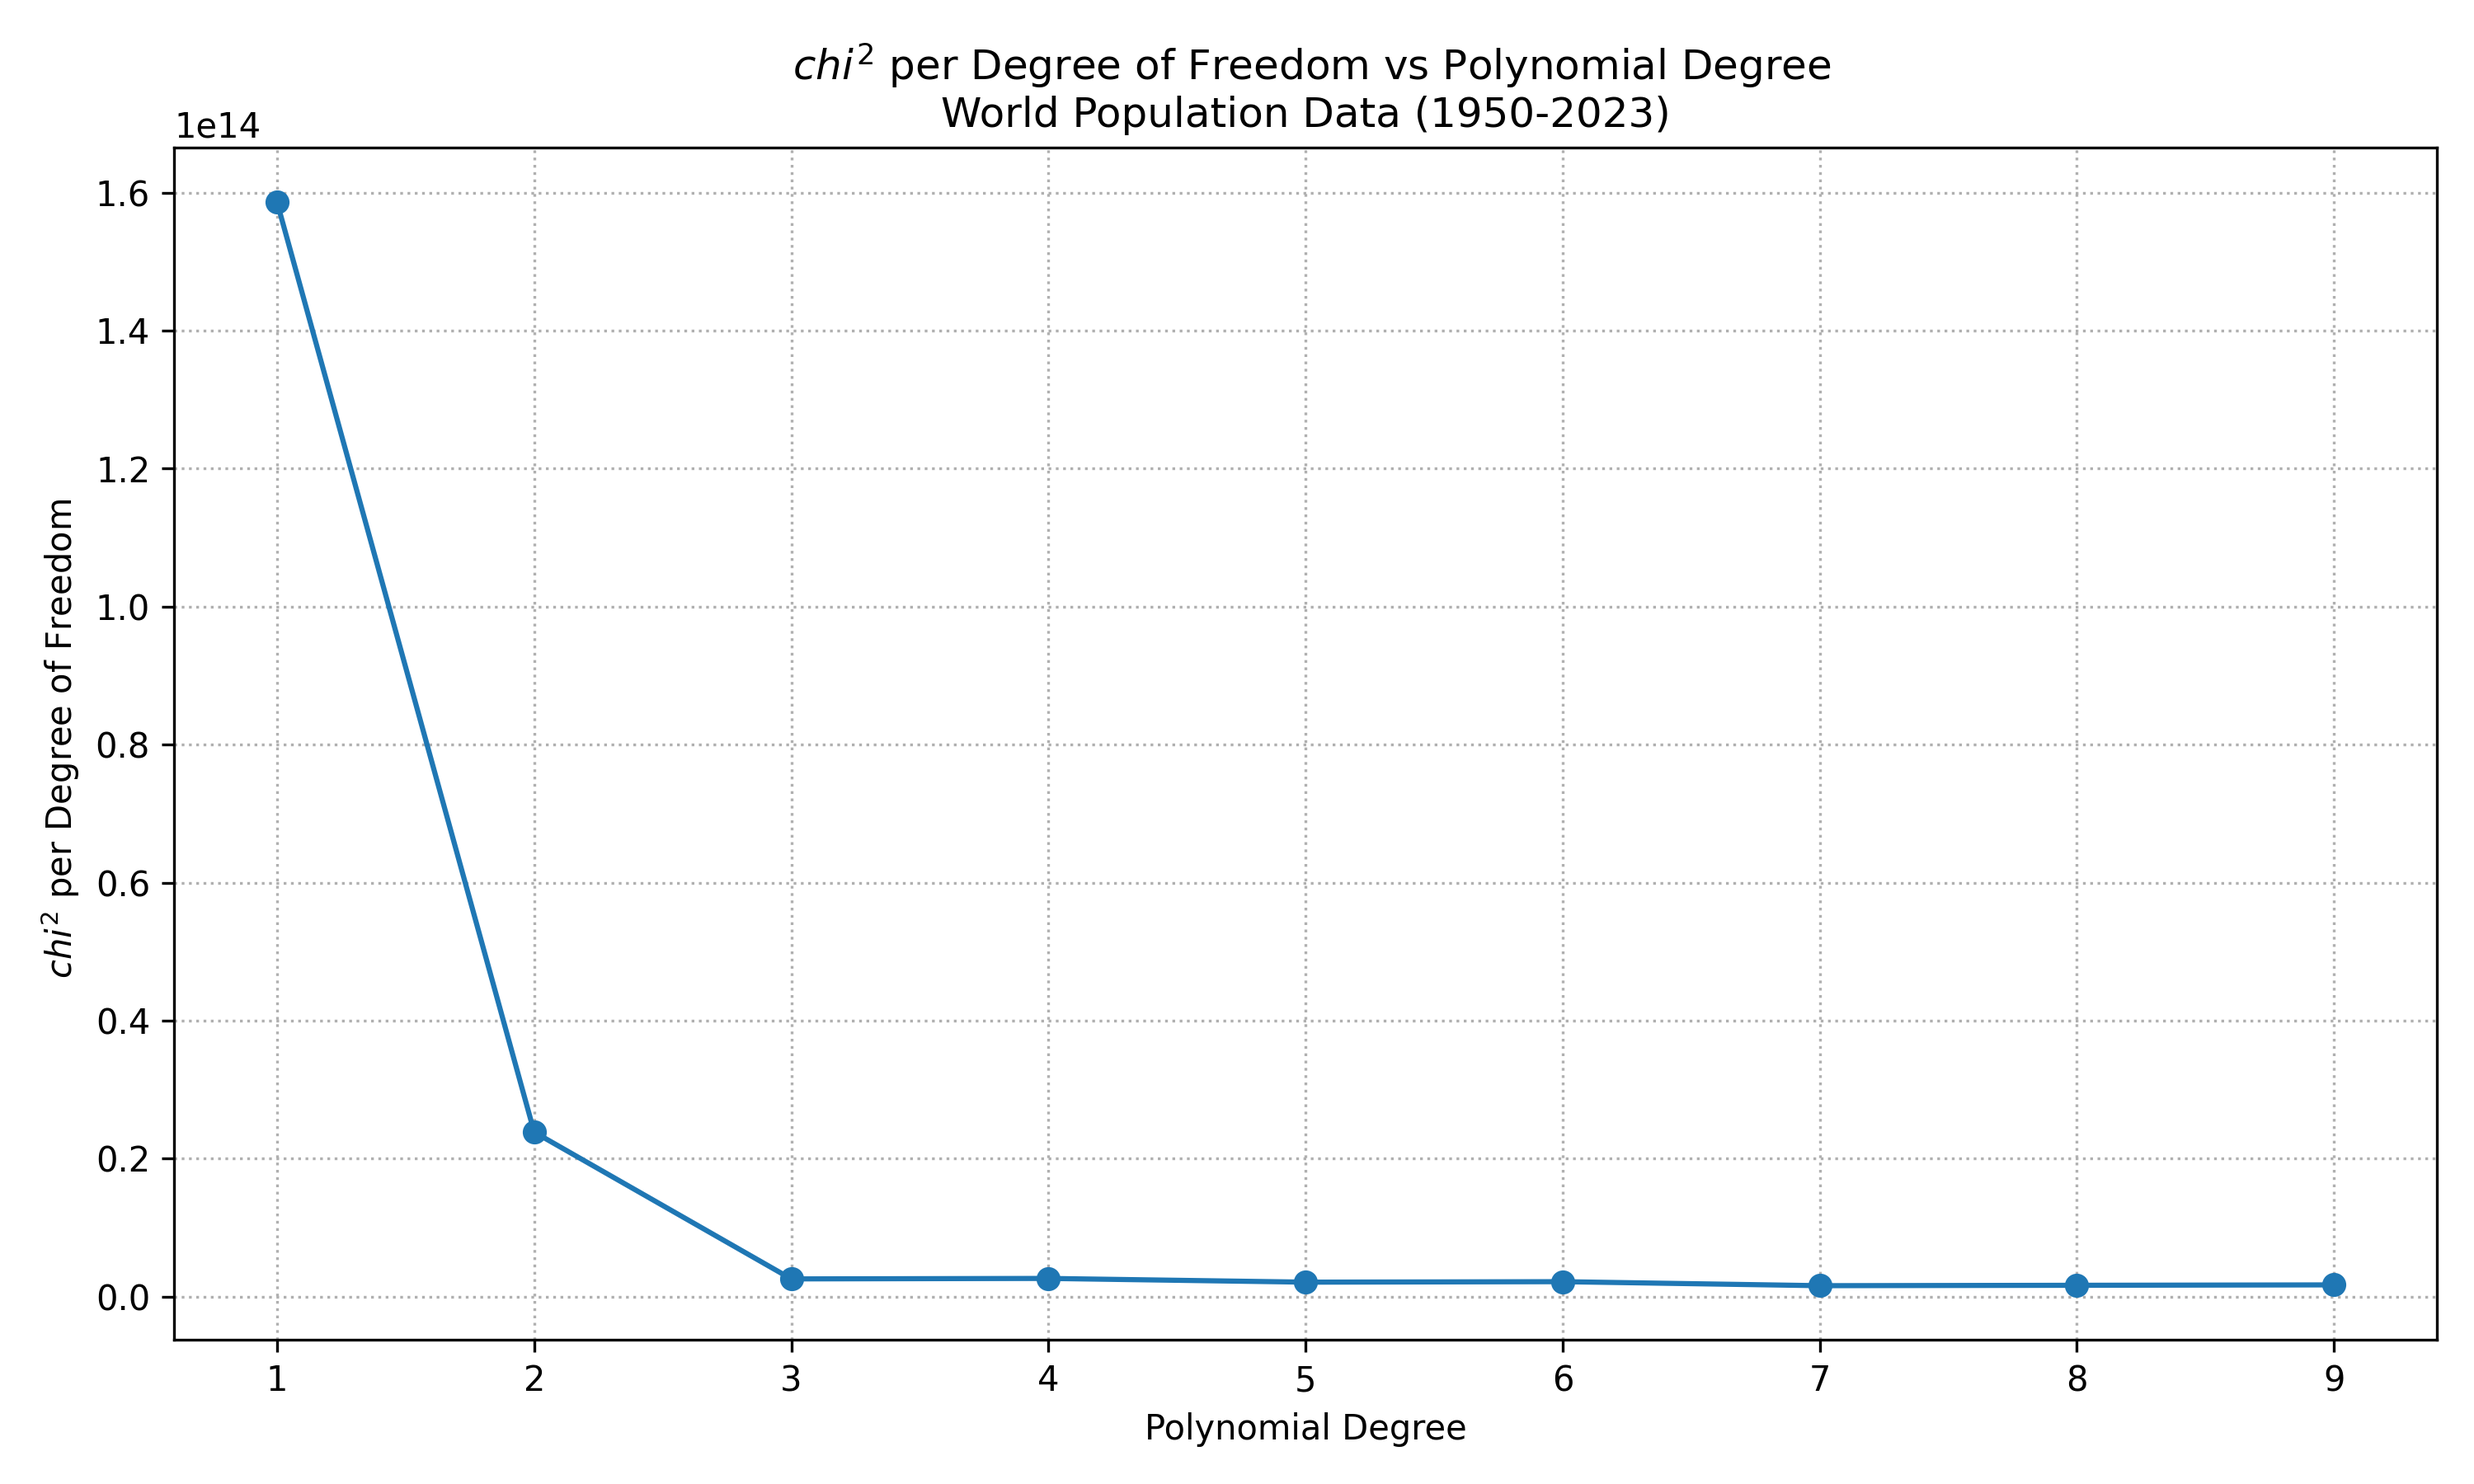
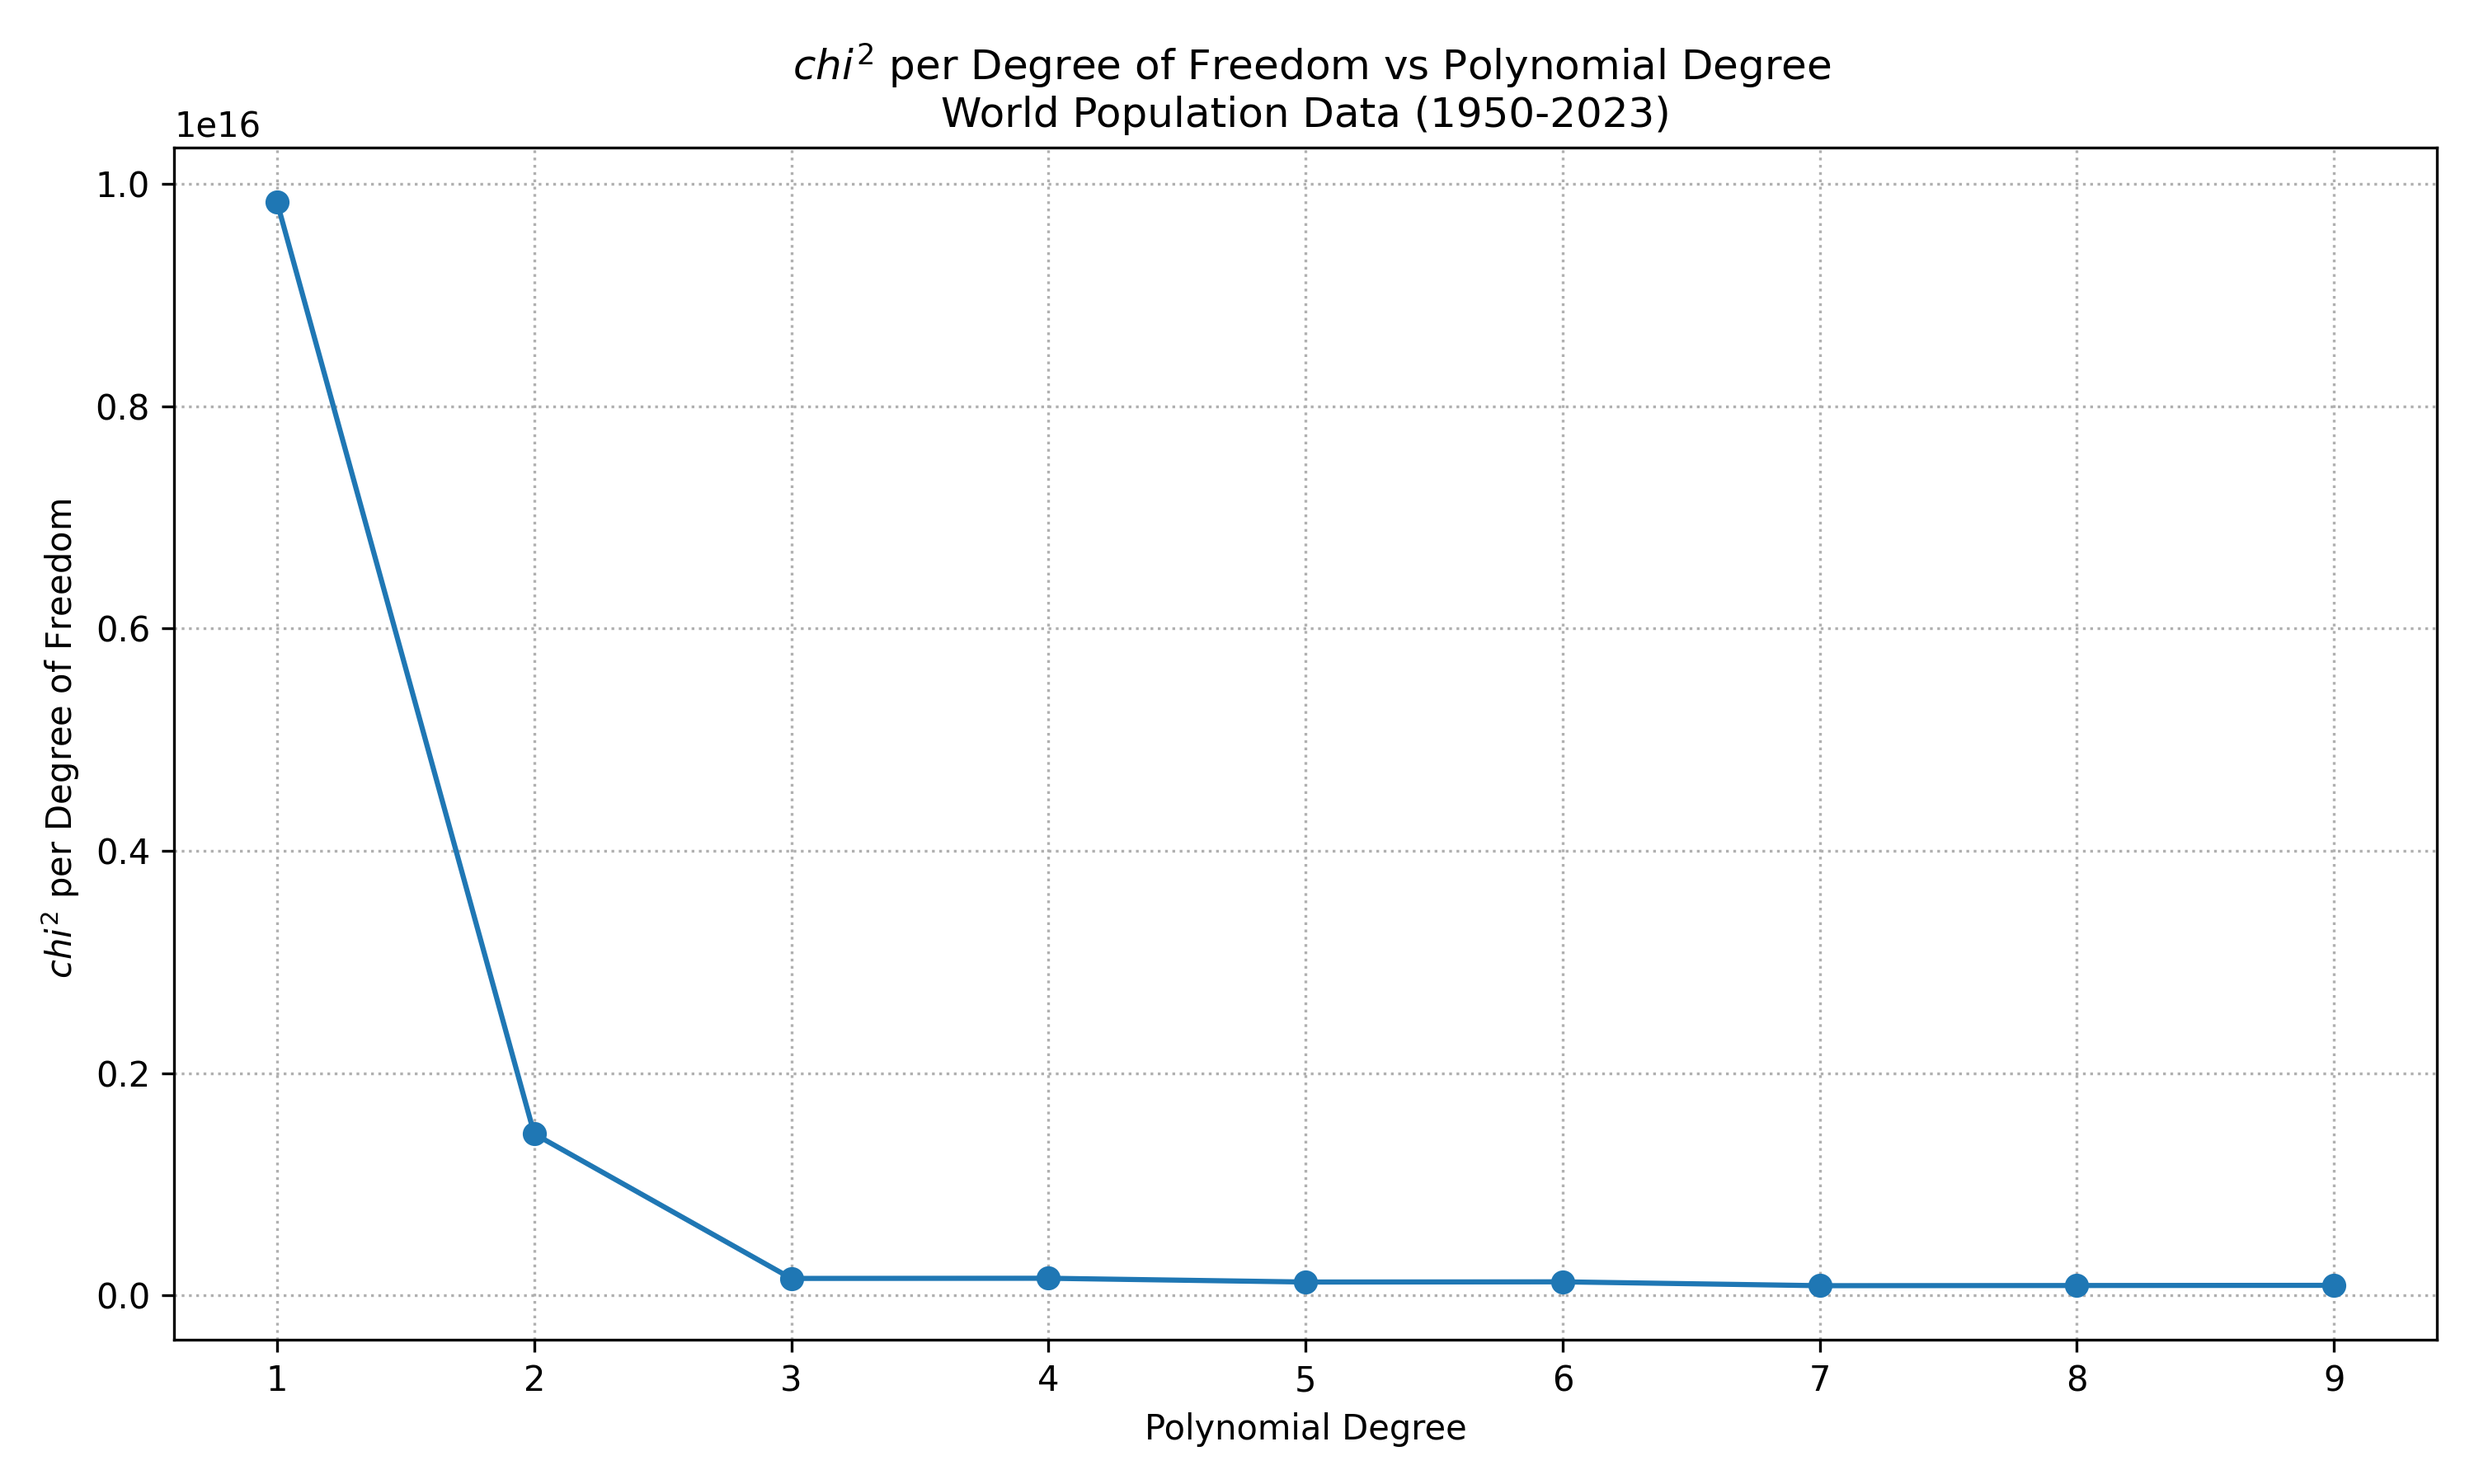
comparing BIC to chi2/dof and picking best model

diff --git a/lab08_fitting_and_forecasting/src/world_population.py b/lab08_fitting_and_forecasting/src/world_population.py
@@ -142,18 +142,19 @@ for deg, poly in polynomials.items():
     p = deg + 1
     dof = N - p
 
+    #chi2 per degree of freedom
+    chi2_per_dof = chi2 / dof
+
     #calculate bayesian information criterion (BIC)
     bic = N * np.log(chi2 / N) + p * np.log(N)
 
-    chi2_bic_results.append((deg, chi2, bic))
-    chi2_per_dof = chi2 / dof
-
-    chi2_dof_results.append((deg, chi2_per_dof / dof))
+    chi2_dof_results.append((deg, chi2_per_dof))
     chi2_bic_results.append((deg, chi2, bic))
 
     print(f"Degree {deg}: chi^2 = {chi2:.3e}, dof = {dof}, chi^2/dof = {chi2_per_dof:.3e}")
     print(f"Degree {deg}: BIC = {bic:.3e}")
     print()
+
 
 #PLOT 4: chi2 per dof vs polynomial degree
 
@@ -168,10 +169,11 @@ plt.ylabel(r'$\ chi^2$ per Degree of Freedom')
 plt.title(r'$\ chi^2$ per Degree of Freedom vs Polynomial Degree' + '\nWorld Population Data (1950-2023)')
 plt.xticks(degrees_list)
 plt.grid(True, linestyle=':')
-
 plt.tight_layout()
+
 fig.savefig(artifacts_dir / 'PLOT4_chi2_per_dof_vs_polynomial_degree.png', dpi=300)
 plt.close(fig)
+
 
 #PLOT 5: BIC vs polynomial degree
 degrees_list_bic = [item[0] for item in chi2_bic_results]
@@ -185,5 +187,29 @@ plt.title('BIC vs Polynomial Degree \nWorld Population Data (1950-2023)')
 plt.xticks(degrees_list_bic)
 plt.grid(True, linestyle=':')
 plt.tight_layout()
+
 fig.savefig(artifacts_dir / 'PLOT5_BIC_vs_polynomial_degree.png', dpi=300)
 plt.close(fig)  
+
+
+#compare BIC vs chi2/dof -> pick best model
+
+#best chi2/dof - lowest
+best_deg_chi2, best_chi2_dof = min(chi2_dof_results, key=lambda x: x[1])
+
+#best BIC - lowest
+best_deg_bic, _, best_bic = min(chi2_bic_results, key=lambda x: x[2])
+
+print("MODEL COMPARISON SUMMARY")
+print(f"Minimum chi^2/dof is for degree {best_deg_chi2}: {best_chi2_dof:.3e}")
+print(f"Minimum BIC is for degree {best_deg_bic}: {best_bic:.3e}")
+
+if best_deg_chi2 == best_deg_bic:
+    print(f"Both criteria agree on best model: degree {best_deg_bic}")
+else:
+    print(f"chi^2/dof prefers degree {best_deg_chi2}, "
+          f"while BIC prefers degree {best_deg_bic} "
+          f"(BIC penalises extra parameters more strongly).")
+    
+print(f"Using usual information criteria guidelines, the 'best' model is "
+      f"the one with the lowest BIC: degree {best_deg_bic}.")
